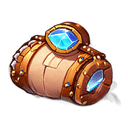
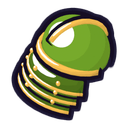
style(ui): 그림결 통일 — 빛 판 · 이벤트 상점 그림 틀에 스티커 남색 테 · 출석 견갑 두 장 새 그림
리소스 피드백 ③ — 아이콘 그림결이 다섯 갈래였다.
1. 밝은 스티커
2. 어두운 빛 판
3. 흰 원형 메달
4. 유니코드 배지 — 앞 커밋에서 정리
5. 옛 생성 그림
- 빛 판(스킬 · 퀘스트): 그림은 그대로 두고 스티커와 같은 남색 고리 2.5px · 둥근 모서리 12px · 아래 그림자를 둘렀다.
  판 밖 고리(box-shadow)라 칸 크기는 안 변한다. 밝은 카드 · 갈색 줄 안에서 따로 놀던 것을 줄였다.
- 이벤트 상점 그림 틀: 흰 원 + 상품색 테 메달을 둥근 네모 스티커 칸(남색 테 · 상품별 바탕색 유지)으로 바꿨다.
  shop-style.css 는 TitansGame 이 나중에 불러 같은 특이도면 이겨서 0,3,0 으로 올렸다.
- 출석판 견갑 보상 두 장(dragon/scout-pauldron, 128²)이 옛 그림이라 새 캐주얼 견갑 아이콘으로 바꿨다.
- ui/iconUnify.css(맨 뒤).

검사: offers 18 · quests-play 27 · skill-shop 11 · ui-merge 20 · shop 38

diff --git a/src/ui/iconUnify.css b/src/ui/iconUnify.css
@@ -1,0 +1,12 @@
+/*
+ * 그림결 통일 (2026-11-23, 리소스 피드백 ③ "아이콘 그림결이 다섯 갈래").
+ * 스티커 아이콘(유물 · 칭호 · 재화 · 장비 · 패키지 · 콘텐츠)은 굵은 남색 외곽선이 틀이다. 다른 갈래도 같은 틀을 두르게:
+ *  - 빛 판(스킬 · 퀘스트, glowTiles.css — 그림은 그대로): 남색 고리 2.5px · 둥근 모서리 12px · 아래 그림자. 판 밖 고리라 칸 크기는 안 변한다(box-shadow)
+ *  - 이벤트 상점 그림 틀: 흰 원 + 금 테(ui-polish.css)가 메달로 따로 놀았다 → 둥근 네모 스티커 칸(크림 판 · 남색 테)
+ * App.tsx 맨 뒤에서 불러온다(glowTiles.css 다음)
+ */
+.skill-icon.has-art.glow-tile { border-radius: 12px !important; box-shadow: 0 0 0 2.5px #1d1833, 0 3px 0 2.5px rgba(29, 24, 51, .32) !important; }
+.quest-icon:has(> .quest-glow-tile) { border-radius: 12px !important; box-shadow: 0 0 0 2.5px #1d1833, 0 3px 0 2.5px rgba(29, 24, 51, .32) !important; }
+
+:is(.hub-sheet, .titans-layer) .event-offer-card .event-offer-art { border-radius: 14px !important; border: 2.5px solid #1d1833 !important; background: linear-gradient(180deg, #ffffff, var(--offer-tint, #ffe1a0)) !important; box-shadow: 0 3px 0 rgba(29, 24, 51, .3) !important; }   /* 특이도 0,3,0 — shop-style.css 는 TitansGame 이 나중에 불러 같은 특이도면 이겼다. 상품별 바탕색(--offer-tint)은 살린다 */
+:is(.hub-sheet, .titans-layer) .event-offer-card .event-offer-art .content-icon, :is(.hub-sheet, .titans-layer) .event-offer-card .event-offer-art .event-offer-img { width: 48px !important; height: 48px !important; filter: none !important; }

diff --git a/src/App.tsx b/src/App.tsx
@@ -41,6 +41,7 @@ import "./ui/gachaBanner.css";   // 2026-11-20 동료 뽑기 배너 2판 — 자
 import "./ui/glowTiles.css";   // 2026-11-23 스킬 · 퀘스트 빛 판 아이콘 — 어두운 정사각 판 · 속성색 빛 (맨 뒤)
 import "./ui/forgeTidy.css";   // 2026-11-23 대장간 무대 정리 — 무대 높이 180~230px · 그림 60% (맨 뒤)
 import "./ui/mypageTidy.css";   // 2026-11-23 마이페이지 — 초상 칸 채우기 · 잠긴 캐릭터 색 · 배지 스티커 그림 (맨 뒤)
+import "./ui/iconUnify.css";   // 2026-11-23 그림결 통일 — 빛 판 · 이벤트 상점 그림 틀에 스티커와 같은 남색 테 (맨 뒤)
 import "./ui/dodgeForgeBlue.css";   // 2026-11-23 성문 방어 출발 화면 · 대장간 = 파란 그림결 — 남색 판 · 흰 칸 남색 테 · 칸 얼굴 (맨 뒤)
 import { haptic } from "./ui/haptics";
 import { subscribeAppVisibility } from "./ui/appLifecycle";
